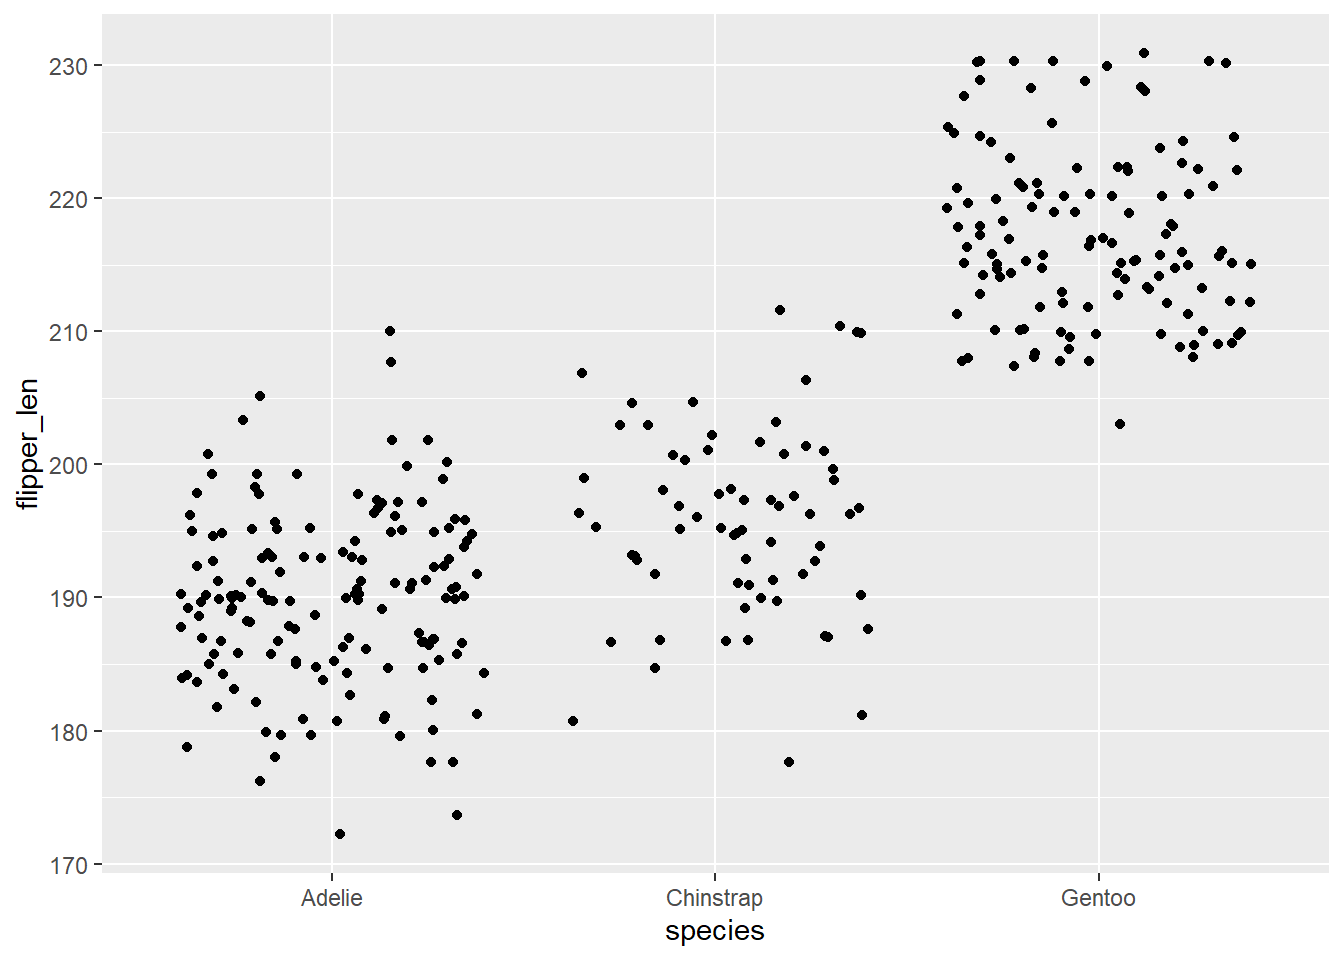
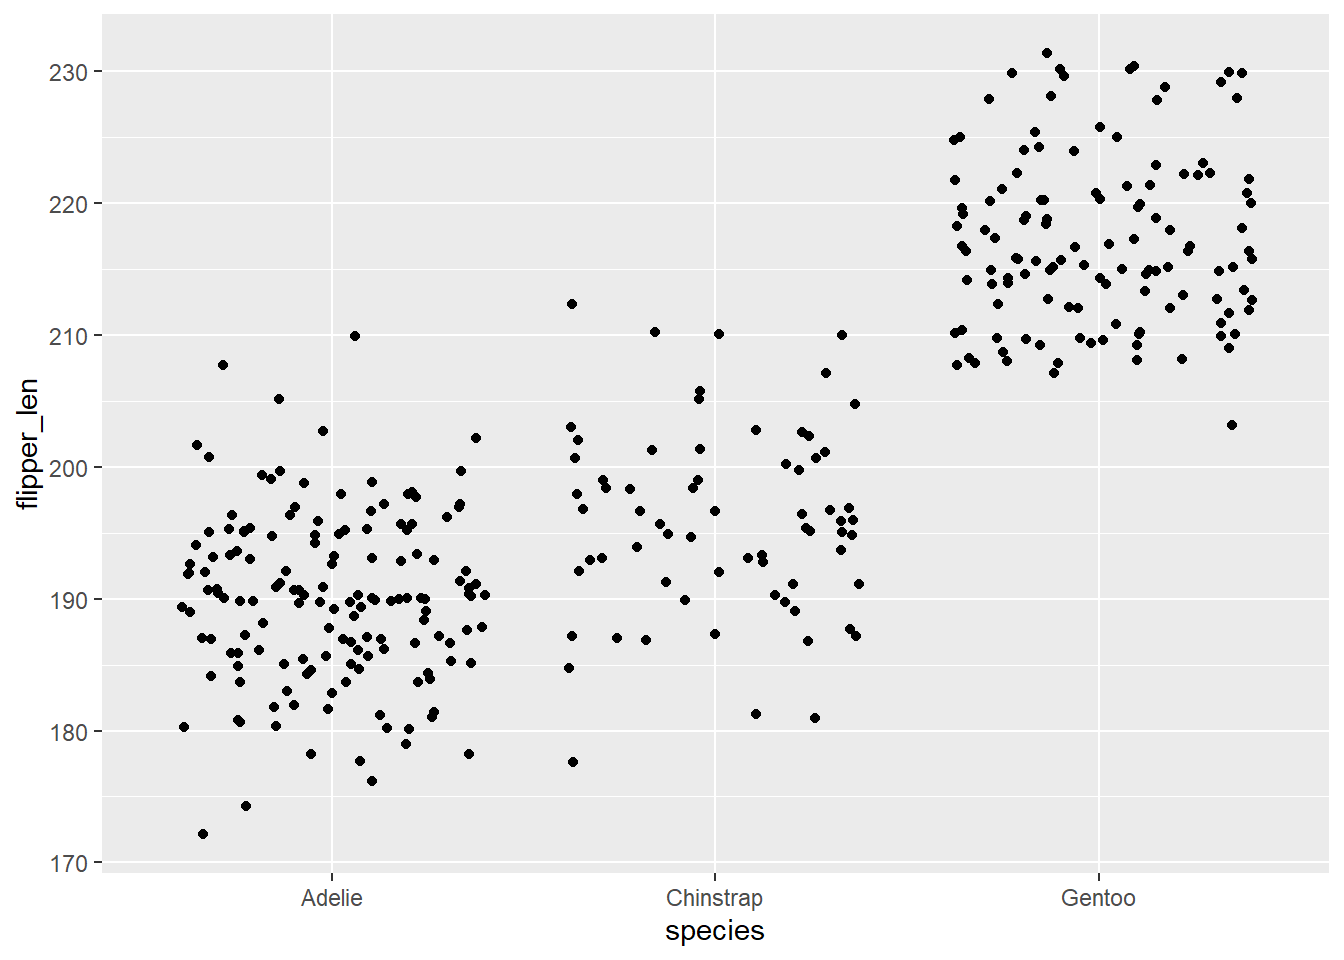
adding bibtex code

diff --git a/paper.html b/paper.html
@@ -121,6 +121,29 @@ pre > code.sourceCode > span > a:first-child::before { text-decoration: underlin
 <pre><code>Warning: Removed 2 rows containing missing values or values outside the scale range
 (`geom_point()`).</code></pre>
 </div>
+<div class="code-copy-outer-scaffold"><div class="sourceCode cell-code" id="cb3"><pre class="sourceCode r code-with-copy"><code class="sourceCode r"><span id="cb3-1"><a href="#cb3-1" aria-hidden="true" tabindex="-1"></a><span class="fu">toBibtex</span>(<span class="fu">citation</span>())            <span class="co"># R itself</span></span></code></pre></div><button title="Copy to Clipboard" class="code-copy-button"><i class="bi"></i></button></div>
+<div class="cell-output cell-output-stdout">
+<pre><code>@Manual{,
+  title = {R: A Language and Environment for Statistical Computing},
+  author = {{R Core Team}},
+  organization = {R Foundation for Statistical Computing},
+  address = {Vienna, Austria},
+  year = {2026},
+  doi = {10.32614/R.manuals},
+  url = {https://www.R-project.org/},
+}</code></pre>
+</div>
+<div class="code-copy-outer-scaffold"><div class="sourceCode cell-code" id="cb5"><pre class="sourceCode r code-with-copy"><code class="sourceCode r"><span id="cb5-1"><a href="#cb5-1" aria-hidden="true" tabindex="-1"></a><span class="fu">toBibtex</span>(<span class="fu">citation</span>(<span class="st">"ggplot2"</span>))   <span class="co"># a package</span></span></code></pre></div><button title="Copy to Clipboard" class="code-copy-button"><i class="bi"></i></button></div>
+<div class="cell-output cell-output-stdout">
+<pre><code>@Book{,
+  author = {Hadley Wickham},
+  title = {ggplot2: Elegant Graphics for Data Analysis},
+  publisher = {Springer-Verlag New York},
+  year = {2016},
+  isbn = {978-3-319-24277-4},
+  url = {https://ggplot2.tidyverse.org},
+}</code></pre>
+</div>
 <div class="cell-output-display">
 <div id="fig-flippers" class="quarto-float quarto-figure quarto-figure-center anchored">
 <figure class="quarto-float quarto-float-fig figure">
